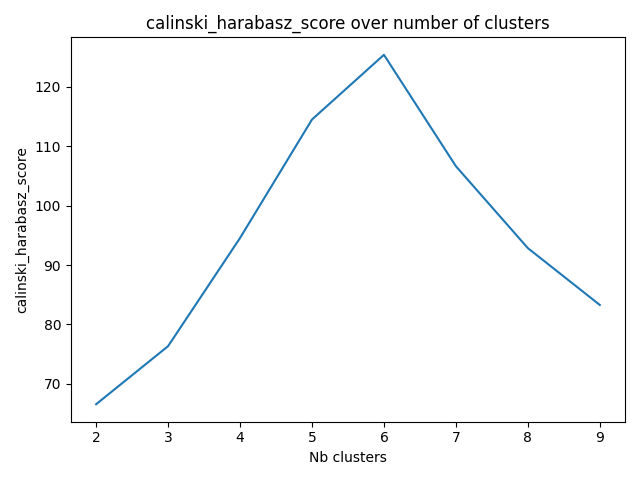
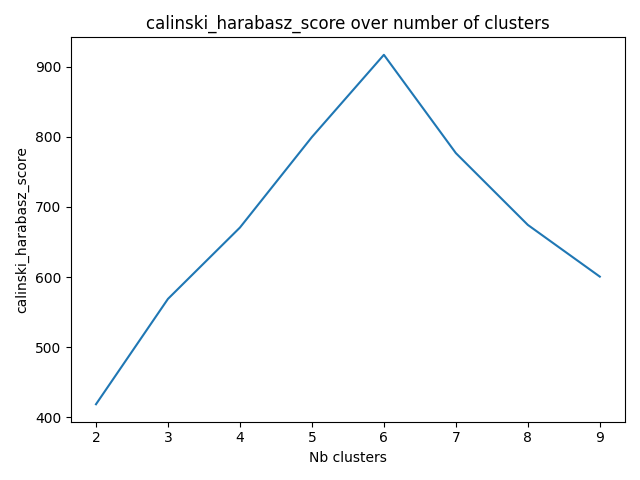
- execution time complexity

diff --git a/main.py b/main.py
@@ -6,7 +6,7 @@ from clustering import clustering, evaluate_clustering, fzclustering
 from generate_data import skills_gen, generate_graph, skills_gen_fz
 from misc import plot_graph
 
-np.set_printoptions(formatter={"float": lambda x: "{0:0.2f}".format(x)})
+np.set_printoptions(formatter={"float": lambda x: "{0:0.8f}".format(x)})
 
 # Data generation parameters
 skills_sets = [
@@ -21,7 +21,7 @@ skills_sets = [
 seed = int(np.pi * 37)  # Seed for random number generation
 np.random.seed(seed)
 
-N = 400  # The number of nodes
+N = 3000  # The number of nodes
 
 min_skill_sets = 1  # The minimum of skills set to add to a user
 max_skill_sets = 2  # The maximal of skills set to add to a user
@@ -40,7 +40,7 @@ axs[1, 1].set_ylabel('Fuzzy CMeans')
 def use_case_fuzzy_cmean(users_skills, clusters_ground_truth, fuzzpar):
     print("Clustering")
 
-    fuzzyclustering_model = fzclustering(users_skills, range(*clustering_range), fuzzpar, True)
+    fuzzyclustering_model, times = fzclustering(users_skills, range(*clustering_range), fuzzpar, True)
     # returned values with order
     # Cluster centers. Data for each center along each feature provided for every cluster (of the c requested clusters).
     print("- Number of clusters found", len(fuzzyclustering_model[0]))
@@ -48,47 +48,49 @@ def use_case_fuzzy_cmean(users_skills, clusters_ground_truth, fuzzpar):
 
     evaluate_clustering(clusters_ground_truth, fuzzyclustering_model[1])
 
-    pca = PCA(n_components=2)
-    #
-    pca.fit(users_skills)
-    new_data = pca.transform(users_skills)
-    #
-    pca.fit(fuzzyclustering_model[0])
-    new_data2 = pca.transform(fuzzyclustering_model[0])
-    c = np.concatenate((fuzzyclustering_model[1], np.array([6] * len(fuzzyclustering_model[0]))))
-    new_data = np.concatenate((new_data, new_data2), axis=0)
-    #
-    axs[1, 1].scatter(new_data.T[0], new_data.T[1], c=c, alpha=0.5)
+    if False:
+        pca = PCA(n_components=2)
+        #
+        pca.fit(users_skills)
+        new_data = pca.transform(users_skills)
+        #
+        pca.fit(fuzzyclustering_model[0])
+        new_data2 = pca.transform(fuzzyclustering_model[0])
+        c = np.concatenate((fuzzyclustering_model[1], np.array([6] * len(fuzzyclustering_model[0]))))
+        new_data = np.concatenate((new_data, new_data2), axis=0)
+        #
+        axs[1, 1].scatter(new_data.T[0], new_data.T[1], c=c, alpha=0.5)
 
     # print("Plotting graph")
-    plot_graph(G, "Clustered_graph_fuzzy.png", colors=fuzzyclustering_model[1])
+    #plot_graph(G, "Clustered_graph_fuzzy.png", colors=fuzzyclustering_model[1])
 
-    return fuzzyclustering_model
+    return times
 
 
 def use_case_kmeans(users_skills, clusters_ground_truth):
     print("Clustering")
-    clustering_model = clustering(users_skills, range(*clustering_range), True)
+    clustering_model, times = clustering(users_skills, range(*clustering_range), True)
     print("- Number of clusters found", len(clustering_model.cluster_centers_))
     print("- Real number of clusters", len(skills_sets))
 
     evaluate_clustering(clusters_ground_truth, clustering_model.labels_)
 
-    pca = PCA(n_components=2)
-    #
-    pca.fit(users_skills)
-    new_data = pca.transform(users_skills)
-    #
-    pca.fit(clustering_model.cluster_centers_)
-    new_data2 = pca.transform(clustering_model.cluster_centers_)
-    c = np.concatenate((clustering_model.labels_, np.array([6] * len(clustering_model.cluster_centers_))))
-    new_data = np.concatenate((new_data, new_data2), axis=0)
-    #
-    axs[1, 0].scatter(new_data.T[0], new_data.T[1], c=c, alpha=0.5)
+    if False:
+        pca = PCA(n_components=2)
+        #
+        pca.fit(users_skills)
+        new_data = pca.transform(users_skills)
+        #
+        pca.fit(clustering_model.cluster_centers_)
+        new_data2 = pca.transform(clustering_model.cluster_centers_)
+        c = np.concatenate((clustering_model.labels_, np.array([6] * len(clustering_model.cluster_centers_))))
+        new_data = np.concatenate((new_data, new_data2), axis=0)
+        #
+        axs[1, 0].scatter(new_data.T[0], new_data.T[1], c=c, alpha=0.5)
 
-    # print("Plotting graph")
-    plot_graph(G, "Clustered_graph_K-Means.png", colors=clustering_model.labels_)
-
+    print("Plotting graph")
+    plot_graph(G, None, colors=clustering_model.labels_)
+    return times
 
 if __name__ == '__main__':
     print("Generating skills")
@@ -98,19 +100,37 @@ if __name__ == '__main__':
     users_skills_fz, clusters_ground_truth_fz = skills_gen_fz(
         skills_sets, N, min_skill_sets, max_skill_sets, min_edits, max_edits)
 
-    # Principal component analysis for ground Truth
-    pca = PCA(n_components=2)
-    pca.fit(users_skills_fz)
-    new_data = pca.transform(users_skills_fz)
-    axs[0, 0].scatter(new_data.T[0], new_data.T[1].T, c=clusters_ground_truth_fz, alpha=0.5)
+    if False:
+        # Principal component analysis for ground Truth
+        pca = PCA(n_components=2)
+        pca.fit(users_skills_fz)
+        new_data = pca.transform(users_skills_fz)
+        axs[0, 0].scatter(new_data.T[0], new_data.T[1].T, c=clusters_ground_truth_fz, alpha=0.5)
 
-    print("Generating graph")
+    #print("Generating graph")
     G = generate_graph(clusters_ground_truth)
 
-    print("Using KMeans")
-    use_case_kmeans(users_skills_fz, clusters_ground_truth_fz)
+    numerofiter = 1
 
-    print("Using Fuzzy C-Means") # third parameter is fuzzification paramater
-    test =  use_case_fuzzy_cmean(users_skills_fz, clusters_ground_truth_fz, 1.4)
-    inta = 0
-    plt.show()
+    avgtimes_KMeans = np.zeros(clustering_range[1] - 2)
+    avgtimes_list_KMeans = list(avgtimes_KMeans)
+
+    avgtimes_FZ = np.zeros(clustering_range[1] - 2)
+    avgtimes_list_FZ = list(avgtimes_FZ)
+
+    for i in range(numerofiter):
+        print("Using KMeans")
+        temptime = use_case_kmeans(users_skills_fz, clusters_ground_truth_fz)
+        avgtimes_list_KMeans = np.add(avgtimes_list_KMeans, temptime)
+
+
+        print("Using Fuzzy C-Means") # third parameter is fuzzification paramater
+        temptimefz = use_case_fuzzy_cmean(users_skills_fz, clusters_ground_truth_fz, 1.4)
+        avgtimes_list_FZ = np.add(avgtimes_list_FZ, temptimefz)
+
+
+        #plt.show()
+
+    print(np.true_divide(avgtimes_list_KMeans, numerofiter))
+    print(np.true_divide(avgtimes_list_FZ, numerofiter))
+

diff --git a/clustering.py b/clustering.py
@@ -1,5 +1,6 @@
 import collections
-
+from datetime import datetime
+import time
 import numpy as np
 from matplotlib import pyplot as plt
 from sklearn.cluster import KMeans
@@ -29,12 +30,24 @@ def clustering(users_skills, n_clusters_range, plot=False):
     best_n = {k: None for k in methods}
 
     models = {}
+    times = []
+
 
     # Find the best number of clusters
     for n in n_clusters_range:
         plotX.append(n)
+
+        #start_time = datetime.now()
+        start = time.time()
         kmeans = KMeans(n_clusters=n, random_state=42,
                         n_init=3, max_iter=50).fit(X)
+        end = time.time()
+        times.append(end - start)
+       # end_time = datetime.now()
+
+        #print("Number of clusters " + str(n) + ' duration: ' + str((end_time - start_time)/1000))
+        #print("Number of clusters " + str(n) + ' duration: ' + str((end - start)))
+
         models[n] = kmeans
 
         for method_str, (method, optimization_sign) in methods.items():
@@ -73,7 +86,7 @@ def clustering(users_skills, n_clusters_range, plot=False):
             # can't decide, two number of cluster have the same number of metric voting
             return None
 
-    return best_model
+    return best_model, times
 
 
 def evaluate_clustering(clusters_ground_truth, cluster_predicted):
@@ -86,14 +99,19 @@ def fzclustering(users_skills, n_clusters_range, fuzzpar, plot=False):
     n_clusters_range = list(n_clusters_range)
 
     fzmodels = {}
-
+    times = []
     fpcs = []
 
     # Find the best number of clusters
     for n_clusters_ in n_clusters_range:
         # another library
-        fuzzy_fcm = FCM(n_clusters=n_clusters_, max_iter=50, m=fuzzpar, error=1e-5, random_state=88)
+        start = time.time()
+        fuzzy_fcm = FCM(n_clusters=n_clusters_, max_iter=50, m=fuzzpar, error=1e-5, random_state=37)
         fuzzy_fcm.fit(X)
+        end = time.time()
+        times.append(end - start)
+
+        #print("Number of fuzzy clusters " + str(n_clusters_) + ' duration: ' + str((end - start)))
 
         fcm_centers = fuzzy_fcm.centers
         fcm_labels = fuzzy_fcm.predict(X)
@@ -118,4 +136,4 @@ def fzclustering(users_skills, n_clusters_range, fuzzpar, plot=False):
         plt.savefig(f"clustering_Fuzzy_1.png")
         plt.close()
 
-    return best_centers
+    return best_centers, times

diff --git a/misc.py b/misc.py
@@ -10,4 +10,4 @@ def plot_graph(G, name, colors):
     nx.draw_networkx_edges(G, pos=pos)
     plt.tight_layout()
     plt.axis("off")
-    plt.savefig(name)
+    plt.draw()
